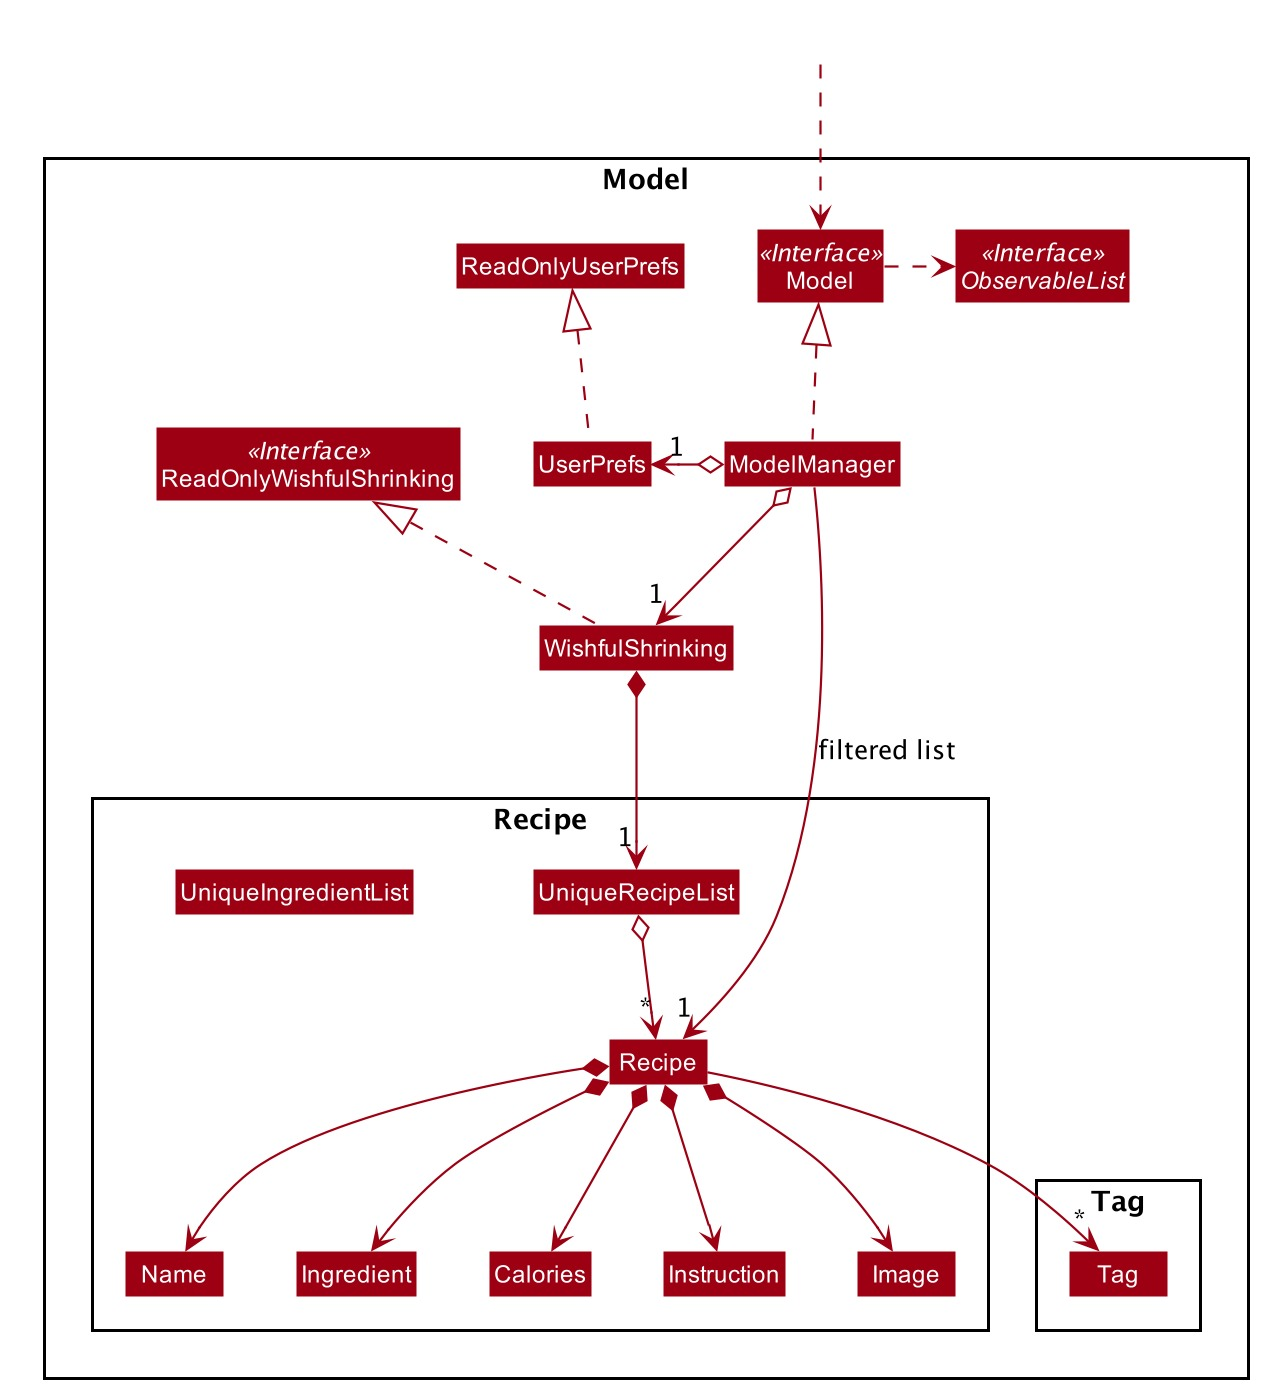
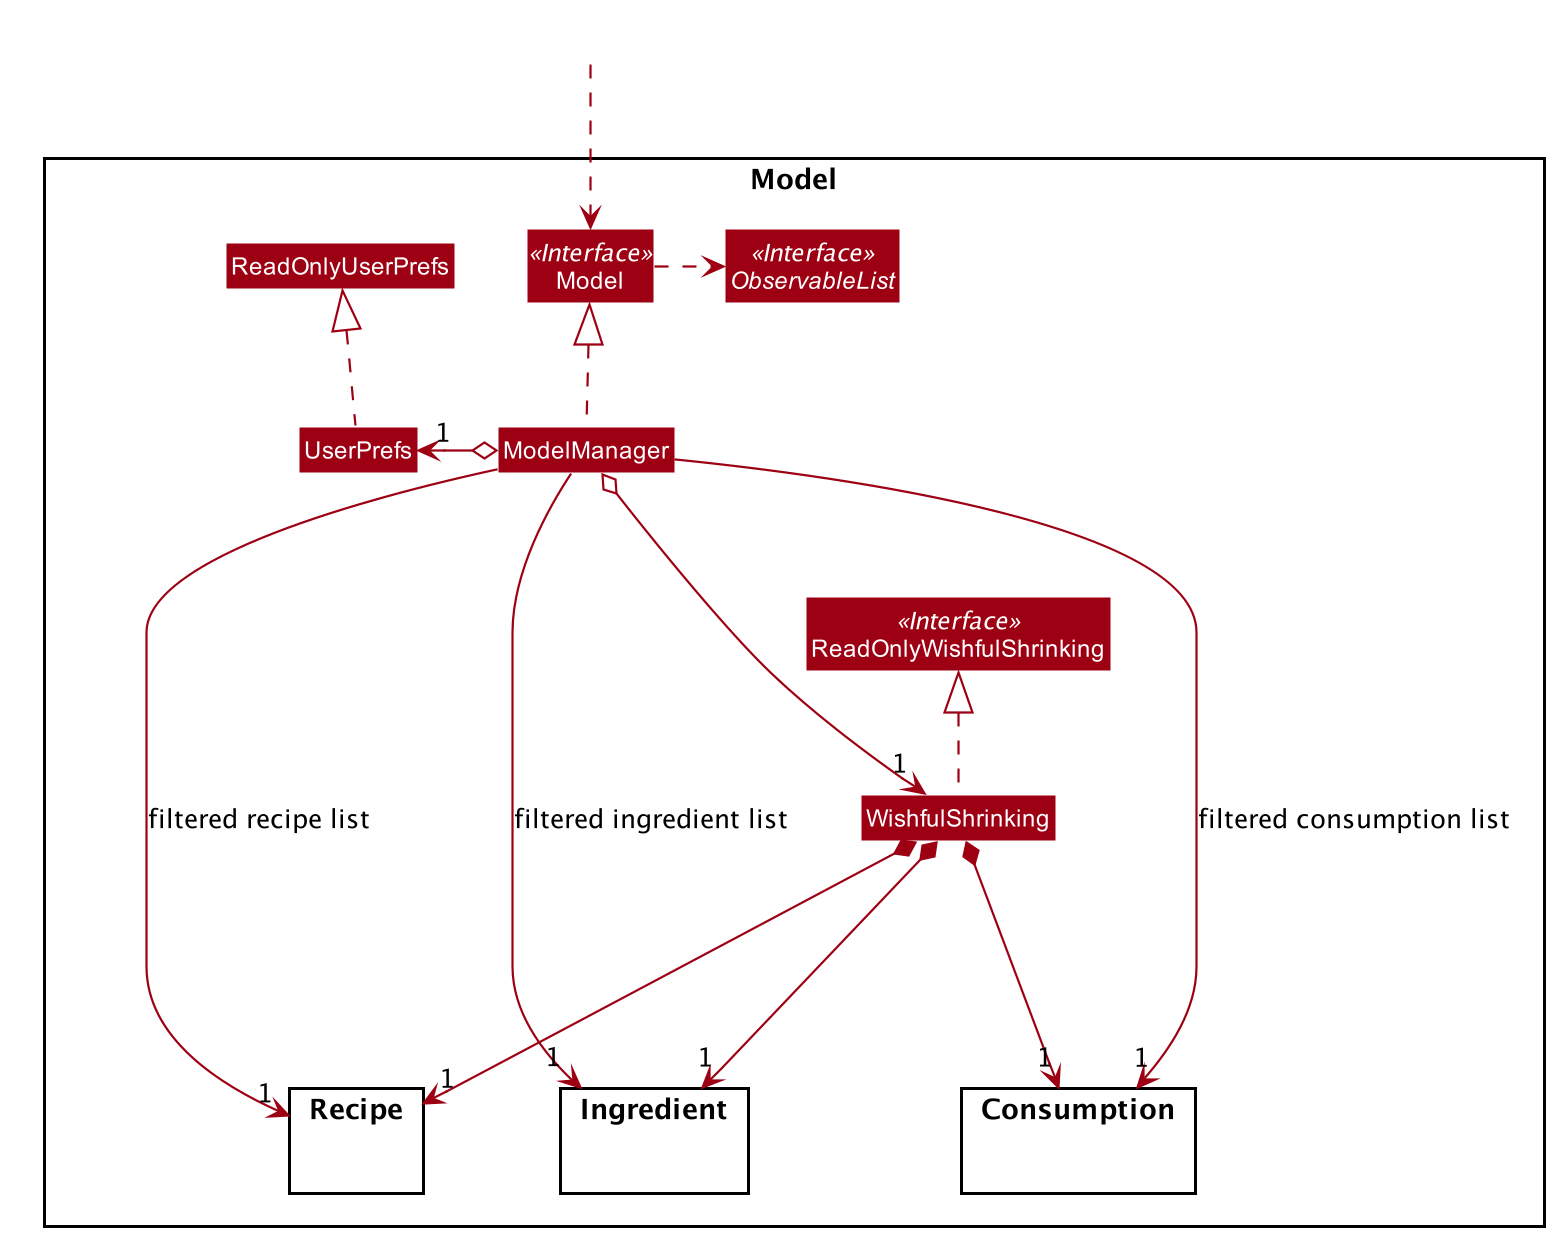
Update DG (Model Class Diagrams)

diff --git a/src/main/java/seedu/address/ui/IngredientCard.java b/src/main/java/seedu/address/ui/IngredientCard.java
@@ -38,7 +38,7 @@ public class IngredientCard extends UiPart<Region> {
     private Label id;
 
     /**
-     * Creates a {@code RecipeCode} with the given {@code Recipe} and index to display.
+     * Creates a {@code IngredientCode} with the given {@code Ingredient} and index to display.
      */
     public IngredientCard(Ingredient ingredient, int displayedIndex) {
         super(FXML);

diff --git a/docs/DeveloperGuide.md b/docs/DeveloperGuide.md
@@ -94,6 +94,9 @@ title: Developer Guide
     - [6.1 Launch and Shutdown](#61-launch-and-shutdown)
     - [6.2 Deleting a Recipe](#62-deleting-a-recipe)
     - [6.3 Saving Data](#63-saving-data)
+7. [Appendix: Model Component](#7-appendix-model-component)
+    - [7.1 Recipe](#71-recipe)
+    - [7.2 Ingredient](#72-ingredient)
 
 --------------------------------------------------------------------------------------------------------------------
 
@@ -182,6 +185,13 @@ The `UI` component,
 ![Structure of the Model Component](images/ModelClassDiagram.png)
 
 **API** : [`Model.java`](https://github.com/AY2021S1-CS2103T-W10-2/tp/tree/master/src/main/java/seedu/address/model/Model.java)
+
+<div markdown="span" class="alert alert-info">
+
+:information_source: **Note:** The more details of the Recipe, Ingredient, Consumption class diagrams
+ is attached at the [back](#7-appendix-model-component)
+
+</div>
 
 The `Model`,
 
@@ -1036,3 +1046,11 @@ testers are expected to do more *exploratory* testing.
    1. _{explain how to simulate a missing/corrupted file, and the expected behavior}_
 
 1. _{ more test cases … }_
+
+## 7. **Appendix: *Model Component*** <a id="7-model-component"></a>
+
+### 7.1 Recipe <a id="71-recipe"></a>
+![Recipe in Model Component](images/ModelClass_Recipe.png)
+
+### 7.2 Ingredient <a id="72-ingredient"></a>
+![Ingredient in Model Component](images/ModelClass_Ingredient.png)
